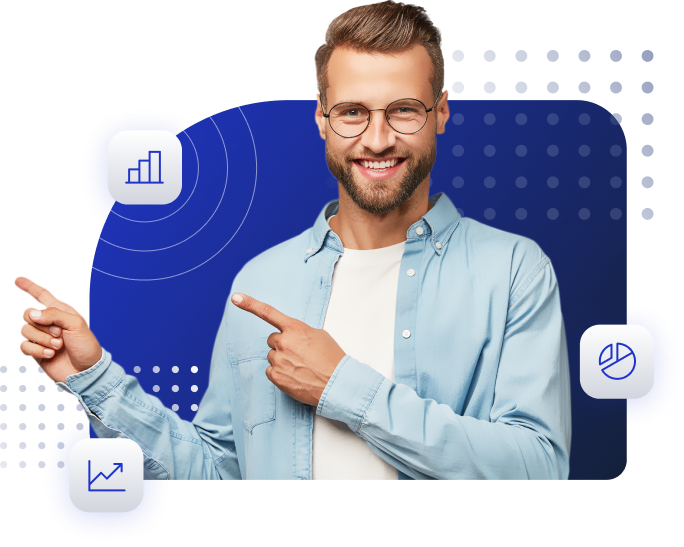
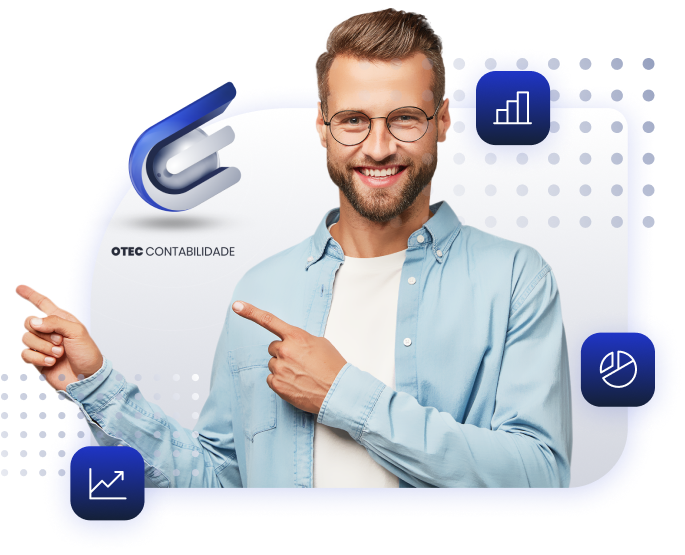
new background

diff --git a/pages/index.jsx b/pages/index.jsx
@@ -11,13 +11,12 @@ export default function Home() {
           <Container className="py-5">
             <Row className="d-flex align-items-center py-5">
               <Col className="col-12 col-lg-6">
-                <h1 className="py-5 title-h1">
+                <h1 className="title-h1 text-light" value="Otec Contabilidade">
                   Da abertura do CNPJ à gestão financeira com o seu assessor
                   especialista.
                 </h1>
-                <div className="d-md-flex">
-                  <ButtonOne title="abra sua empresa" link="#" target={false} />
-                  <ButtonTwo title="sobre nós" link="#about" target={false} />
+                <div className="d-md-flex py-3">
+                  <ButtonTwo title="entre em contato" link="#" target={false} />
                 </div>
               </Col>
               <Col className="col-12 col-lg-6 py-5">
@@ -31,14 +30,6 @@ export default function Home() {
             </Row>
           </Container>
         </Container>
-        <Container className="blue-box d-flex align-items-center justify-content-between p-2 text-light">
-          <div className="px-2">
-            <span>Entre em contato</span>
-          </div>
-          <div>
-            <ButtonTwo title="sobre nós" link="#about" target={false} />
-          </div>
-        </Container>
       </section>
 
       <section id="about">
@@ -48,18 +39,16 @@ export default function Home() {
             <Row className="d-flex align-items-center">
               <Col className="col-12 col-lg-6">
                 <div className="card-about">
-                  <div className="blue-box-one"></div>
-                  <div className="blue-box-two"></div>
                   <img
                     className="card-img"
                     draggable={false}
                     width="100%"
-                    src="/images/office-01.jpg"
+                    src="/images/office-1.png"
                     alt="imagem de escritório"
                   />
                 </div>
               </Col>
-              <Col className="col-12 col-lg-6 d-flex flex-column align-items-end">
+              <Col className="col-12 col-lg-6 d-flex flex-column align-items-center align-items-md-end">
                 <p className="p-14 pb-5 pt-4">
                   Lorem ipsum dolor sit amet consectetur adipisicing elit. Vel
                   dicta, iure impedit quibusdam iste doloremque officiis

diff --git a/styles/globals.scss b/styles/globals.scss
@@ -1,4 +1,4 @@
-@import url('https://fonts.googleapis.com/css2?family=Montserrat:ital,wght@0,100;0,200;0,300;0,400;0,500;0,600;0,700;0,800;0,900;1,100;1,200;1,300;1,400;1,500;1,600;1,700;1,800;1,900&display=swap');
+@import url("https://fonts.googleapis.com/css2?family=Montserrat:ital,wght@0,100;0,200;0,300;0,400;0,500;0,600;0,700;0,800;0,900;1,100;1,200;1,300;1,400;1,500;1,600;1,700;1,800;1,900&display=swap");
 @import "~bootstrap/scss/bootstrap";
 @import "./colors.scss";
 @import "./typography.scss";
@@ -14,18 +14,24 @@ html {
   box-sizing: border-box;
 }
 
-body {  
-  font-family: 'Montserrat', sans-serif !important;
+body {
+  font-family: "Montserrat", sans-serif !important;
 }
 
 .hero-1 {
-  background: radial-gradient(100% 303.43% at 0% 0%, #d2d5de 0%, #ffffff 100%);
+  background: url("/images/wall.svg");
+  background-size: cover;
+  background-position: bottom center;
+  background-repeat: no-repeat;
+  height: 120vh;
 }
 
-.blue-box {
-  background: $color-1;
-  border-radius: 20px;
-  box-shadow: 0px 10px 30px rgba(41, 62, 125, 0.5);
-  position: relative;
-  bottom: -50%;
+@media screen and (min-width: 728px) {
+  .hero-1 {
+    height: calc(100vh - 20px);
+  }
+}
+
+.card-img {
+  transform: scale(1.05);
 }
